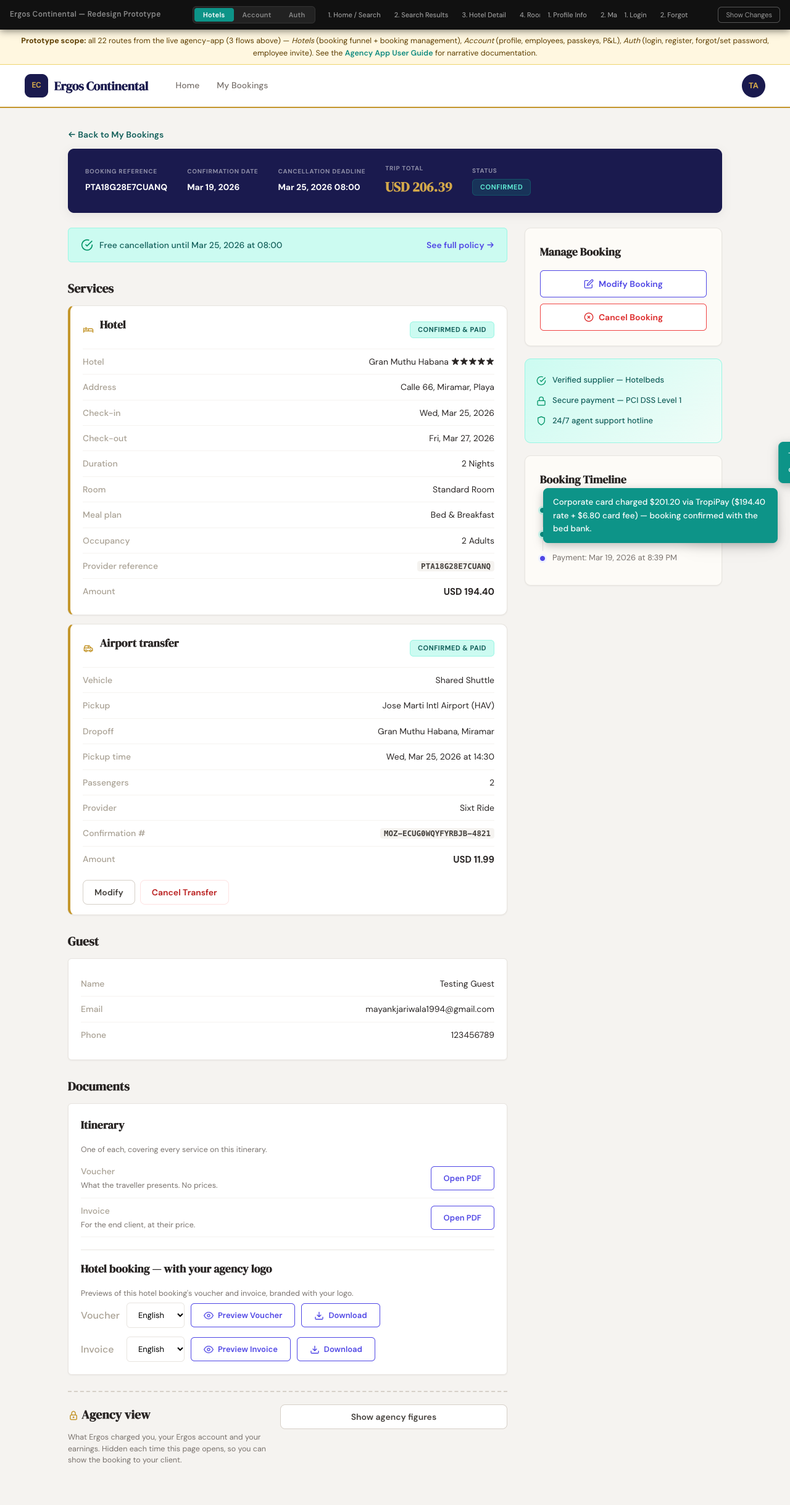
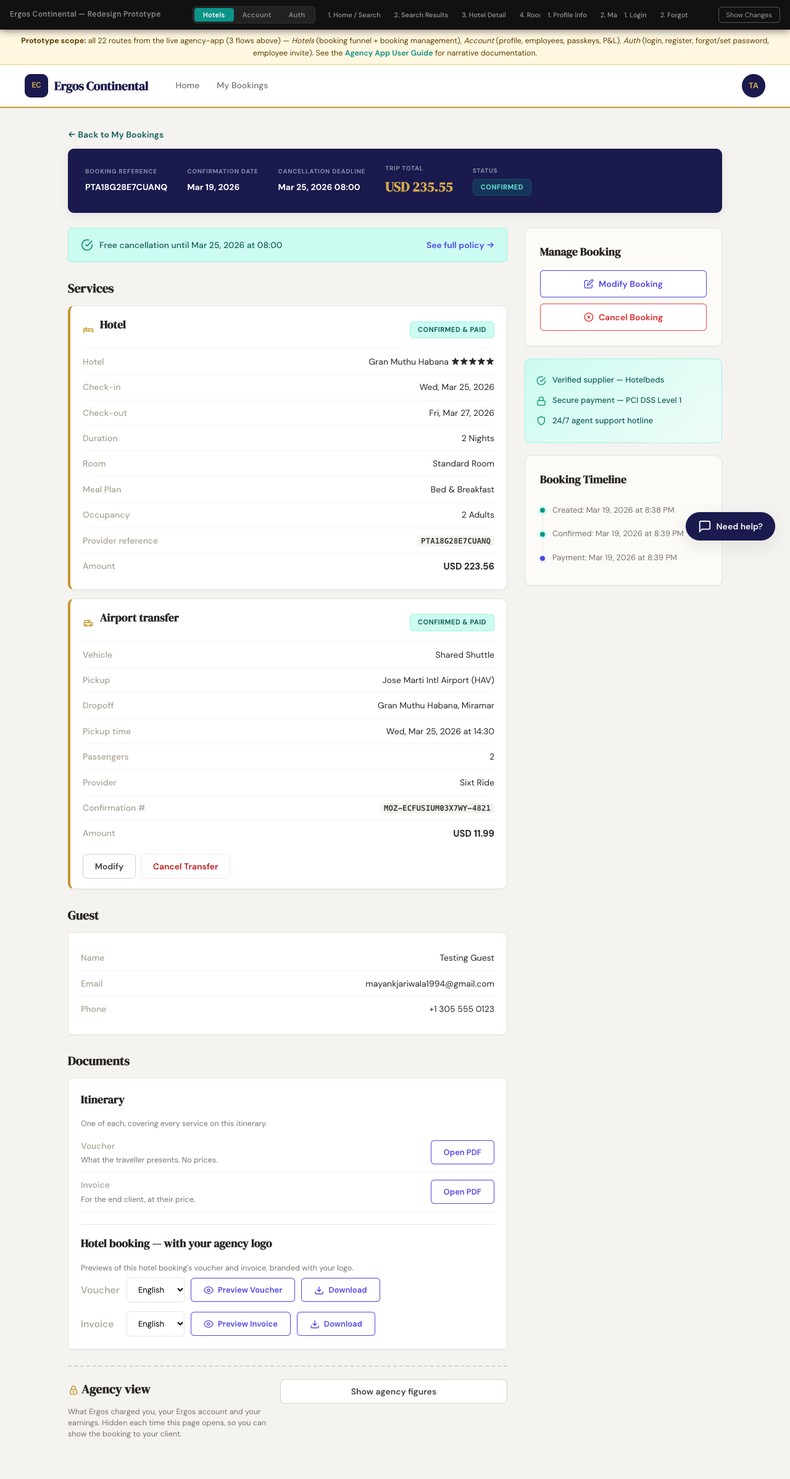
docs(37,38): bell reminders, no provider net, live ride states
Prototype: bell dropdown opens the reminder's own booking on its hotel
lane; no provider net in the add panel; ride fare priced once; phone
check on soft credit only. Guide: full ride status list, voucher and
invoice wording, cancellation banner.

diff --git a/public/user-guide/agency-app-user-guide.html b/public/user-guide/agency-app-user-guide.html
@@ -523,8 +523,8 @@
 
     <h3 class="lang-en">One transfer per booking</h3>
     <h3 class="lang-es">Un traslado por reserva</h3>
-    <p class="lang-en">A booking carries <strong>at most one</strong> airport transfer. While it has a booked ride, its page hides <strong>+ Add airport transfer</strong>, so there is no way to start a second one. Cancel the existing transfer first and the button comes back for the replacement. A cancelled transfer does not count, so a booking whose ride you cancelled is free to take a new one.</p>
-    <p class="lang-es">Una reserva lleva <strong>como máximo un</strong> traslado al aeropuerto. Mientras tenga un traslado reservado, su página oculta <strong>+ Add airport transfer</strong> (agregar traslado al aeropuerto), así que no hay forma de iniciar un segundo. Cancele primero el traslado existente y el botón vuelve a aparecer para el reemplazo. Un traslado cancelado no cuenta, así que una reserva cuyo traslado usted canceló puede tomar uno nuevo.</p>
+    <p class="lang-en">A booking carries <strong>at most one</strong> airport transfer. While it has a booked ride, its page offers no entry to add another: <strong>+ Add airport transfer</strong> is hidden. Cancel the existing transfer first and the button comes back for the replacement. A cancelled transfer does not count, so a booking whose ride you cancelled is free to take a new one.</p>
+    <p class="lang-es">Una reserva lleva <strong>como máximo un</strong> traslado al aeropuerto. Mientras tenga un traslado reservado, su página no ofrece ninguna entrada para agregar otro: <strong>+ Add airport transfer</strong> (agregar traslado al aeropuerto) está oculto. Cancele primero el traslado existente y el botón vuelve a aparecer para el reemplazo. Un traslado cancelado no cuenta, así que una reserva cuyo traslado usted canceló puede tomar uno nuevo.</p>
 
     <div class="callout callout-info">
       <strong class="lang-en">No second entry while a ride is booked</strong>
@@ -538,13 +538,17 @@
     <p class="lang-en">Every ride on a booking has its own <strong>Airport transfer</strong> lane in the booking's <em>Services</em> section (see §7), with a status badge:</p>
     <p class="lang-es">Cada traslado de una reserva tiene su propio carril <strong>Airport transfer</strong> (traslado al aeropuerto) en la sección <em>Services</em> (servicios) de la reserva (ver §7), con una etiqueta de estado:</p>
     <ul class="lang-en">
+      <li><strong>IN PROGRESS</strong> — the ride is still being booked; its amount reads <em>Not booked yet — not counted</em>.</li>
+      <li><strong>CONFIRMED — NOT PAID</strong> — booked, not charged yet; it counts in the total and appears as <em>Outstanding</em> in the agency view.</li>
       <li><strong>CONFIRMED &amp; PAID</strong> — booked and paid. The lane lists the vehicle, pickup, dropoff, pickup time, passengers, provider and the <em>Confirmation #</em> the client and the driver use, with <strong>Modify</strong> and <strong>Cancel Transfer</strong> underneath.</li>
-      <li><strong>CANCELLED</strong> — you cancelled it. Its amount is struck through as <em>Refunded — not counted</em>: the fare is back on your credit and no longer in the total.</li>
+      <li><strong>CANCELLED</strong> — you cancelled it, and it is no longer in the total. Its amount is struck through as <em>Refunded — not counted</em> when its fare came back to you, or <em>Cancelled — not counted</em> when nothing was refunded.</li>
       <li><strong>NOT BOOKED</strong> — the provider refused it. The amount reads <em>Not booked — not counted</em>, the provider's reason is shown, and <strong>Retry airport transfer</strong> starts a new search (see §5). Your room is <em>not</em> affected.</li>
     </ul>
     <ul class="lang-es">
+      <li><strong>IN PROGRESS</strong> (en curso) — el traslado todavía se está reservando; su importe indica <em>Not booked yet — not counted</em> (aún no reservado, no se cuenta).</li>
+      <li><strong>CONFIRMED — NOT PAID</strong> (confirmado, sin pagar) — reservado y aún no cobrado; cuenta en el total y figura como <em>Outstanding</em> (pendiente) en la vista de la agencia.</li>
       <li><strong>CONFIRMED &amp; PAID</strong> (confirmado y pagado) — reservado y pagado. El carril muestra el vehículo, la recogida, el destino, la hora de recogida, los pasajeros, el proveedor y el <em>Confirmation #</em> (número de confirmación) que usan el cliente y el conductor, con <strong>Modify</strong> (modificar) y <strong>Cancel Transfer</strong> (cancelar traslado) debajo.</li>
-      <li><strong>CANCELLED</strong> (cancelado) — usted lo canceló. Su importe aparece tachado como <em>Refunded — not counted</em> (reembolsado, no se cuenta): la tarifa volvió a su crédito y ya no forma parte del total.</li>
+      <li><strong>CANCELLED</strong> (cancelado) — usted lo canceló y ya no forma parte del total. Su importe aparece tachado como <em>Refunded — not counted</em> (reembolsado, no se cuenta) cuando la tarifa le fue devuelta, o <em>Cancelled — not counted</em> (cancelado, no se cuenta) cuando no hubo reembolso.</li>
       <li><strong>NOT BOOKED</strong> (no reservado) — el proveedor lo rechazó. El importe indica <em>Not booked — not counted</em>, se muestra el motivo del proveedor y <strong>Retry airport transfer</strong> (reintentar el traslado) inicia una nueva búsqueda (ver §5). Su habitación <em>no</em> se ve afectada.</li>
     </ul>
     <p class="lang-en"><strong>Modify</strong> opens <em>Modify Transfer — Search New Vehicle</em> to change the pickup, date, time or passengers. <strong>Cancel Transfer</strong> shows the vehicle, pickup, price and confirmation number and asks <em>"Are you sure you want to cancel this transfer? This action cannot be undone."</em> — <strong>Keep Transfer</strong> or <strong>Yes, Cancel</strong>. The hotel stays booked, and <strong>+ Add airport transfer</strong> is offered again.</p>
@@ -606,8 +610,8 @@
     <h3 class="lang-es">Reabrir una reserva que tiene traslado</h3>
     <p class="lang-en">In the list, a booking that carries an airport transfer is totalled as <strong>TRIP TOTAL</strong> instead of <strong>TOTAL CLIENT PRICE</strong> — that label is how you spot one at a glance. Click <strong>View Booking Details</strong> to open it.</p>
     <p class="lang-es">En la lista, una reserva que lleva un traslado al aeropuerto se totaliza como <strong>TRIP TOTAL</strong> (total del viaje) en lugar de <strong>TOTAL CLIENT PRICE</strong> (precio total al cliente) — esa etiqueta es la forma de reconocerla de un vistazo. Haga clic en <strong>View Booking Details</strong> para abrirla.</p>
-    <p class="lang-en">The detail page opens with the booking header: <em>BOOKING REFERENCE</em>, <em>CONFIRMATION DATE</em>, <em>CANCELLATION DEADLINE</em>, the total and <em>STATUS</em>. The total reads <em>TRIP TOTAL</em> while a ride is counted and <em>TOTAL CLIENT PRICE</em> otherwise; it adds up only the services still booked. Below it the page has four parts, each fact in one place: <strong>Services</strong>, <strong>Guest</strong>, <strong>Documents</strong> and the <strong>Agency view</strong>. <em>Manage Booking</em> (<strong>Modify Booking</strong>, <strong>Cancel Booking</strong>) and the <em>Booking Timeline</em> sit on the right.</p>
-    <p class="lang-es">La página de detalle se abre con el encabezado de la reserva: <em>BOOKING REFERENCE</em> (referencia), <em>CONFIRMATION DATE</em> (fecha de confirmación), <em>CANCELLATION DEADLINE</em> (fecha límite de cancelación), el total y <em>STATUS</em> (estado). El total dice <em>TRIP TOTAL</em> (total del viaje) mientras se cuenta un traslado y <em>TOTAL CLIENT PRICE</em> (precio total al cliente) en los demás casos; solo suma los servicios que siguen reservados. Debajo, la página tiene cuatro partes, cada dato en un solo lugar: <strong>Services</strong> (servicios), <strong>Guest</strong> (huésped), <strong>Documents</strong> (documentos) y la <strong>Agency view</strong> (vista de la agencia). <em>Manage Booking</em> (<strong>Modify Booking</strong>, <strong>Cancel Booking</strong>) y el <em>Booking Timeline</em> (historial de la reserva) están a la derecha.</p>
+    <p class="lang-en">The detail page opens with the booking header: <em>BOOKING REFERENCE</em>, <em>CONFIRMATION DATE</em>, <em>CANCELLATION DEADLINE</em>, the total and <em>STATUS</em>. The total reads <em>TRIP TOTAL</em> while a ride is counted and <em>TOTAL CLIENT PRICE</em> otherwise; it adds up only the services still booked. Under the header, a banner states the cancellation policy — for example <em>Cancellable</em>, <em>"No cancellation fees until 23/10/2026 at 20:00."</em> and <strong>See more</strong>. Below it the page has four parts, each fact in one place: <strong>Services</strong>, <strong>Guest</strong>, <strong>Documents</strong> and the <strong>Agency view</strong>. <em>Manage Booking</em> (<strong>Modify Booking</strong>, <strong>Cancel Booking</strong>) and the <em>Booking Timeline</em> sit on the right.</p>
+    <p class="lang-es">La página de detalle se abre con el encabezado de la reserva: <em>BOOKING REFERENCE</em> (referencia), <em>CONFIRMATION DATE</em> (fecha de confirmación), <em>CANCELLATION DEADLINE</em> (fecha límite de cancelación), el total y <em>STATUS</em> (estado). El total dice <em>TRIP TOTAL</em> (total del viaje) mientras se cuenta un traslado y <em>TOTAL CLIENT PRICE</em> (precio total al cliente) en los demás casos; solo suma los servicios que siguen reservados. Bajo el encabezado, un banner indica la política de cancelación — por ejemplo <em>Cancellable</em> (cancelable), <em>"No cancellation fees until 23/10/2026 at 20:00."</em> (sin cargos de cancelación hasta el 23/10/2026 a las 20:00) y <strong>See more</strong> (ver más). Debajo, la página tiene cuatro partes, cada dato en un solo lugar: <strong>Services</strong> (servicios), <strong>Guest</strong> (huésped), <strong>Documents</strong> (documentos) y la <strong>Agency view</strong> (vista de la agencia). <em>Manage Booking</em> (<strong>Modify Booking</strong>, <strong>Cancel Booking</strong>) y el <em>Booking Timeline</em> (historial de la reserva) están a la derecha.</p>
 
     <h3 class="lang-en">Services: one lane per service</h3>
     <h3 class="lang-es">Services: un carril por servicio</h3>
@@ -773,13 +777,13 @@
     <p class="lang-es">La <strong>Invoice</strong> del itinerario se abre como una <strong>PROFORMA INVOICE</strong> (factura proforma) encabezada con el nombre de su agencia y una referencia (<em>Ref: INV-…</em>). Una banda oscura lleva la fecha y la etiqueta de pago (por ejemplo <strong>PAID</strong>, pagada). Luego:</p>
     <ul class="lang-en">
       <li><strong>BILL TO</strong> — the end client's name and email.</li>
-      <li><strong>SERVICE DETAILS</strong> — grouped under <strong>ACCOMMODATION</strong> and <strong>TRANSFER</strong>; each line has its description and reference, its <em>Status</em> (for example <em>Paid</em>) and its total at the client's price.</li>
+      <li><strong>SERVICE DETAILS</strong> — grouped under <strong>ACCOMMODATION</strong> and <strong>TRANSFER</strong>; each line has its description, a provider reference, its <em>Status</em> (for example <em>Paid</em>) and its total at the client's price.</li>
       <li><em>Accommodation Subtotal</em>, <em>Transfer Subtotal</em> and the <strong>TOTAL</strong>.</li>
       <li><strong>PAYMENT INFORMATION</strong> — the amount <em>PAID</em> and the <em>STATUS</em> (for example <strong>PAID IN FULL</strong>).</li>
     </ul>
     <ul class="lang-es">
       <li><strong>BILL TO</strong> (facturar a) — el nombre y el correo del cliente final.</li>
-      <li><strong>SERVICE DETAILS</strong> (detalle de servicios) — agrupados bajo <strong>ACCOMMODATION</strong> (alojamiento) y <strong>TRANSFER</strong> (traslado); cada línea tiene su descripción y referencia, su <em>Status</em> (estado, por ejemplo <em>Paid</em>) y su total al precio del cliente.</li>
+      <li><strong>SERVICE DETAILS</strong> (detalle de servicios) — agrupados bajo <strong>ACCOMMODATION</strong> (alojamiento) y <strong>TRANSFER</strong> (traslado); cada línea tiene su descripción, una referencia del proveedor, su <em>Status</em> (estado, por ejemplo <em>Paid</em>) y su total al precio del cliente.</li>
       <li><em>Accommodation Subtotal</em>, <em>Transfer Subtotal</em> y el <strong>TOTAL</strong>.</li>
       <li><strong>PAYMENT INFORMATION</strong> (información de pago) — el importe <em>PAID</em> (pagado) y el <em>STATUS</em> (por ejemplo <strong>PAID IN FULL</strong>, pagada en su totalidad).</li>
     </ul>
@@ -797,10 +801,10 @@
     </figure>
 
     <div class="callout callout-info">
-      <strong class="lang-en">What's on the voucher:</strong>
-      <strong class="lang-es">Qué tiene el voucher:</strong>
-      <span class="lang-en"> your agency's name, a reference, the guest, the hotel with check-in, check-out and room, and — when the booking has one — the airport transfer (vehicle, confirmation number, pickup, pickup time, dropoff). No price is printed on it.</span>
-      <span class="lang-es"> el nombre de su agencia, una referencia, el huésped, el hotel con check-in, check-out y habitación, y — cuando la reserva lo tiene — el traslado al aeropuerto (vehículo, número de confirmación, recogida, hora de recogida, destino). No lleva ningún precio impreso.</span>
+      <strong class="lang-en">What's on the itinerary voucher:</strong>
+      <strong class="lang-es">Qué tiene el voucher del itinerario:</strong>
+      <span class="lang-en"> your agency's name and contact, the itinerary reference and the issue date; for the hotel, its name, the guest, the dates with the number of nights and its confirmation; and — when the booking has one — the airport transfer (provider and vehicle, passenger, pickup, pickup time, dropoff and confirmation). No price is printed on it. The room type is not on it; it appears on the branded hotel-booking voucher (<strong>Preview Voucher</strong>).</span>
+      <span class="lang-es"> el nombre y el contacto de su agencia, la referencia del itinerario y la fecha de emisión; para el hotel, su nombre, el huésped, las fechas con la cantidad de noches y su confirmación; y — cuando la reserva lo tiene — el traslado al aeropuerto (proveedor y vehículo, pasajero, recogida, hora de recogida, destino y confirmación). No lleva ningún precio impreso. El tipo de habitación no figura en él; aparece en el voucher de la reserva de hotel con su logo (<strong>Preview Voucher</strong>).</span>
     </div>
   </section>
 
@@ -1269,7 +1273,7 @@
     <p class="lang-es">Abrir la página marca los recordatorios como <strong>leídos</strong>, así que la insignia de la campana se limpia. Tenga en cuenta que el banner de urgencia permanece hasta que el cover se paga efectivamente — leer la página limpia la insignia, no el banner.</p>
 
     <h3 class="lang-en">Opening a reminder takes you to the hotel</h3>
-    <h3 class="lang-es">Abrir un recordatorio le lleva al hotel</h3>
+    <h3 class="lang-es">Abrir un recordatorio lo lleva al hotel</h3>
     <p class="lang-en">Each reminder on the page names its booking — for example <em>"Cover payment due — booking 54144526"</em> with <em>"Pay by 26 Sep, 2026 to keep your booking."</em> and a <strong>DUE WITHIN 24H</strong> badge. The bell's own list shows the same reminder in short — <em>"Cover payment due — booking 54144526 · due within 24h"</em>. Click the reminder in either place and the booking's detail page opens scrolled to the <strong>Hotel</strong> lane, just below the top bar, so the service the payment is about is the first thing you see.</p>
     <p class="lang-es">Cada recordatorio de la página indica su reserva — por ejemplo <em>"Cover payment due — booking 54144526"</em> (pago de cover pendiente — reserva 54144526) con <em>"Pay by 26 Sep, 2026 to keep your booking."</em> (pague antes del 26 de septiembre de 2026 para conservar su reserva) y una etiqueta <strong>DUE WITHIN 24H</strong> (vence en 24 h). La lista de la propia campana muestra el mismo recordatorio en forma breve — <em>"Cover payment due — booking 54144526 · due within 24h"</em>. Haga clic en el recordatorio en cualquiera de los dos lugares y la página de detalle de la reserva se abre desplazada hasta el carril <strong>Hotel</strong>, justo debajo de la barra superior, de modo que lo primero que ve es el servicio al que se refiere el pago.</p>
 

diff --git a/public/prototypes/agency-app/index.html b/public/prototypes/agency-app/index.html
@@ -117,7 +117,7 @@
       <div class="nav-right">
         <button class="icon-btn help-btn" title="Need help?" aria-label="Help"><svg width="18" height="18" viewBox="0 0 24 24" fill="none" stroke="currentColor" stroke-width="2"><circle cx="12" cy="12" r="10"/><path d="M9.09 9a3 3 0 0 1 5.83 1c0 2-3 3-3 3"/><path d="M12 17h.01"/></svg></button>
         <button class="icon-btn" aria-label="Language"><svg width="18" height="18" viewBox="0 0 24 24" fill="none" stroke="currentColor" stroke-width="2"><circle cx="12" cy="12" r="10"/><path d="M2 12h20M12 2a15.3 15.3 0 0 1 4 10 15.3 15.3 0 0 1-4 10 15.3 15.3 0 0 1-4-10 15.3 15.3 0 0 1 4-10z"/></svg></button>
-        <button class="icon-btn notif-bell" aria-label="Notifications" title="Notifications" onclick="openNotifications()"><svg width="18" height="18" viewBox="0 0 24 24" fill="none" stroke="currentColor" stroke-width="2"><path d="M18 8A6 6 0 0 0 6 8c0 7-3 9-3 9h18s-3-2-3-9M13.73 21a2 2 0 0 1-3.46 0"/></svg><span class="notif-badge">2</span></button>
+        <button class="icon-btn notif-bell" aria-label="Notifications" title="Notifications" aria-haspopup="menu" aria-expanded="false" onclick="openNotifications(event)"><svg width="18" height="18" viewBox="0 0 24 24" fill="none" stroke="currentColor" stroke-width="2"><path d="M18 8A6 6 0 0 0 6 8c0 7-3 9-3 9h18s-3-2-3-9M13.73 21a2 2 0 0 1-3.46 0"/></svg><span class="notif-badge">2</span></button>
         <span class="nav-greeting" id="nav-greeting">Good afternoon, Demo Agency</span>
         <div class="avatar">TA</div>
       </div>
@@ -1740,7 +1740,7 @@
         <a href="#" class="nav-link active">My Bookings</a>
       </div>
       <div class="nav-right">
-        <button class="icon-btn notif-bell" aria-label="Notifications" title="Notifications" onclick="openNotifications()"><svg width="18" height="18" viewBox="0 0 24 24" fill="none" stroke="currentColor" stroke-width="2"><path d="M18 8A6 6 0 0 0 6 8c0 7-3 9-3 9h18s-3-2-3-9M13.73 21a2 2 0 0 1-3.46 0"/></svg><span class="notif-badge">2</span></button>
+        <button class="icon-btn notif-bell" aria-label="Notifications" title="Notifications" aria-haspopup="menu" aria-expanded="false" onclick="openNotifications(event)"><svg width="18" height="18" viewBox="0 0 24 24" fill="none" stroke="currentColor" stroke-width="2"><path d="M18 8A6 6 0 0 0 6 8c0 7-3 9-3 9h18s-3-2-3-9M13.73 21a2 2 0 0 1-3.46 0"/></svg><span class="notif-badge">2</span></button>
         <span class="nav-greeting">Good afternoon, Demo Agency</span>
         <div class="avatar">DA</div>
       </div>
@@ -2113,7 +2113,7 @@
         <a href="#" class="nav-link" onclick="showScreen('bookings')">My Bookings</a>
       </div>
       <div class="nav-right">
-        <button class="icon-btn notif-bell" aria-label="Notifications" title="Notifications" onclick="openNotifications()"><svg width="18" height="18" viewBox="0 0 24 24" fill="none" stroke="currentColor" stroke-width="2"><path d="M18 8A6 6 0 0 0 6 8c0 7-3 9-3 9h18s-3-2-3-9M13.73 21a2 2 0 0 1-3.46 0"/></svg><span class="notif-badge">2</span></button>
+        <button class="icon-btn notif-bell" aria-label="Notifications" title="Notifications" aria-haspopup="menu" aria-expanded="false" onclick="openNotifications(event)"><svg width="18" height="18" viewBox="0 0 24 24" fill="none" stroke="currentColor" stroke-width="2"><path d="M18 8A6 6 0 0 0 6 8c0 7-3 9-3 9h18s-3-2-3-9M13.73 21a2 2 0 0 1-3.46 0"/></svg><span class="notif-badge">2</span></button>
         <div class="avatar">DA</div>
       </div>
     </nav>
@@ -2184,7 +2184,7 @@
       <!-- Header Summary -->
       <div class="bd-header">
         <div class="bd-header-grid">
-          <div class="bd-h-item"><span class="bd-h-label">Booking Reference</span><span class="bd-h-val">PTA18G28E7CUANQ</span></div>
+          <div class="bd-h-item"><span class="bd-h-label">Booking Reference</span><span class="bd-h-val" id="bd-header-ref">PTA18G28E7CUANQ</span></div>
           <div class="bd-h-item"><span class="bd-h-label">Confirmation Date</span><span class="bd-h-val">Mar 19, 2026</span></div>
           <div class="bd-h-item"><span class="bd-h-label">Cancellation Deadline</span><span class="bd-h-val">Mar 25, 2026 08:00</span></div>
           <div class="bd-h-item"><span class="bd-h-label" id="bd-header-price-label">Total Client Price</span><span class="bd-h-val bd-h-price" id="bd-header-price">USD 194.40</span></div>
@@ -2228,7 +2228,7 @@
                 <span class="status-badge confirmed" id="bd-f1-hotel-status">Confirmed &amp; paid</span>
               </div>
               <dl class="bd-lane-rows">
-                <div class="bd-sc-row"><dt class="bd-sc-label">Hotel</dt><dd>Gran Muthu Habana ★★★★★</dd></div>
+                <div class="bd-sc-row"><dt class="bd-sc-label">Hotel</dt><dd id="bd-hotel-name">Gran Muthu Habana ★★★★★</dd></div>
                 <div class="bd-sc-row"><dt class="bd-sc-label">Check-in</dt><dd id="bd-checkin">Wed, Mar 25, 2026</dd></div>
                 <div class="bd-sc-row"><dt class="bd-sc-label">Check-out</dt><dd id="bd-checkout">Fri, Mar 27, 2026</dd></div>
                 <div class="bd-sc-row"><dt class="bd-sc-label">Duration</dt><dd id="bd-duration">2 Nights</dd></div>
@@ -2354,7 +2354,6 @@
                       </div>
                     </div>
                     <div class="vc-price">
-                      <div class="vc-net">Net USD 48.00</div>
                       <div class="vc-sell" data-base-usd="55.20">USD 55.20</div>
                     </div>
                     <button class="vc-add-btn" onclick="bdatSelect(this.closest('.vehicle-card'))">Select</button>
@@ -2372,7 +2371,6 @@
                       </div>
                     </div>
                     <div class="vc-price">
-                      <div class="vc-net">Net USD 62.00</div>
                       <div class="vc-sell" data-base-usd="71.30">USD 71.30</div>
                     </div>
                     <button class="vc-add-btn" onclick="bdatSelect(this.closest('.vehicle-card'))">Select</button>

diff --git a/public/prototypes/agency-app/app.js b/public/prototypes/agency-app/app.js
@@ -1024,7 +1024,7 @@ document.querySelectorAll('.help-btn').forEach(btn => {
 });
 
 // Navbar icon buttons (globe, notification bell)
-document.querySelectorAll('.navbar .icon-btn:not(.help-btn)').forEach(btn => {
+document.querySelectorAll('.navbar .icon-btn:not(.help-btn):not(.notif-bell)').forEach(btn => {
   btn.addEventListener('click', () => {
     showToast('info', 'Feature', 'This feature would open in the full application.');
   });
@@ -2587,29 +2587,35 @@ function bdSetAmount(id, amount, counted, note) {
   el.innerHTML = counted ? bdUSD(amount) : '<s>' + bdUSD(amount) + '</s><span class="bd-not-counted">' + (note || 'Cancelled — not counted') + '</span>';
 }
 
+// The hotel price is Ergos's (bookingState.price); a ride's fare is already the client price
+// (serviceTransferPrice), so its Ergos charge is that fare without the agency markup.
 function bdTotals() {
   const hotel = parseFloat(bookingState.price) || 0;
   const hotelCounted = !bookingState.isCancelled;
-  const ride = bdRideAmount();
+  const rideClient = bdRideAmount();
+  const ride = bdErgosPrice(rideClient);
   const rideCounted = bdHasActiveRide();
   const total = (hotelCounted ? hotel : 0) + (rideCounted ? ride : 0);
-  return { hotel, hotelCounted, ride, rideCounted, total };
+  const totalClient = (hotelCounted ? bdClientPrice(hotel) : 0) + (rideCounted ? rideClient : 0);
+  return { hotel, hotelCounted, ride, rideClient, rideCounted, total, totalClient };
 }
 
 // Owner decision 1a: everything visible by default is the CLIENT price (Ergos price × (1 +
 // agency markup), the P&L's "Customer paid"); Ergos figures live only in the agency view.
-function bdClientPrice(ergos) {
+function bdMarkupFactor() {
   const pct = (typeof agencyMarkupState !== 'undefined' && agencyMarkupState.percentage) || 0;
-  return Math.round(ergos * (1 + pct / 100) * 100) / 100;
+  return 1 + pct / 100;
 }
+function bdClientPrice(ergos) { return Math.round(ergos * bdMarkupFactor() * 100) / 100; }
+function bdErgosPrice(client) { return Math.round(client / bdMarkupFactor() * 100) / 100; }
 
 function bdItRender() {
   const t = bdTotals();
   bdSetAmount('bd-f1-hotel-amount', bdClientPrice(t.hotel), t.hotelCounted);
-  if (bdHasRide()) bdSetAmount('bd-f1-transport-amount', bdClientPrice(t.ride), t.rideCounted, bdRideNote());
+  if (bdHasRide()) bdSetAmount('bd-f1-transport-amount', t.rideClient, t.rideCounted, bdRideNote());
   // Header: the client's total of the services still booked, cancelled ones excluded.
   const price = document.getElementById('bd-header-price');
-  if (price) price.textContent = bdUSD(bdClientPrice(t.total));
+  if (price) price.textContent = bdUSD(t.totalClient);
   const label = document.getElementById('bd-header-price-label');
   if (label) label.textContent = t.rideCounted ? 'Trip Total' : 'Total Client Price';
   if (bdAgencyOpen) bdAgencyRender();
@@ -2665,9 +2671,20 @@ function bdRideRetry() {
   bdRetrying = true;
   bdRenderRideLane();
   bdatExpand();
+  document.getElementById('bdat-pickup')?.focus({ preventScroll: true });
+}
+
+let bdNotificationBooking = null;   // { hotel, ref } of the reminder that opened the page
+function bdApplyBookingIdentity() {
+  const keep = (id) => { const el = document.getElementById(id); if (el && el.dataset.orig == null) el.dataset.orig = el.textContent; return el; };
+  const n = bdItineraryFromNotification ? bdNotificationBooking : null;
+  [['bd-header-ref', n && n.ref], ['bd-f1-hotel-ref', n && n.ref], ['bd-hotel-name', n && n.hotel]].forEach(([id, v]) => {
+    const el = keep(id); if (el) el.textContent = v || el.dataset.orig;
+  });
 }
 
 function f1RenderOnBookingDetail() {
+  bdApplyBookingIdentity();
   bdRenderRideLane();
   bdItRender();
 }
@@ -2717,7 +2734,7 @@ function bdAgencyRender() {
   const markupPct = agencyMarkupState.percentage;
   const rebatePct = 12;
   const ergosCost = t.total;
-  const customerPaid = ergosCost * (1 + markupPct / 100);
+  const customerPaid = t.totalClient;
   const markup = customerPaid - ergosCost;
   const rebate = ergosCost * rebatePct / 100;
   body.innerHTML = cancelMoney +
@@ -3658,7 +3675,8 @@ function bdatBook() {
   const orig = window.confirmBooking;
   if (typeof orig !== 'function') return;
   window.confirmBooking = function () {
-    if (serviceTransferAdded && !f1RidePhoneOk()) return f1RefusePhone();
+    // Live BookingPage.tsx checks the phone on the soft-credit rail only.
+    if (serviceTransferAdded && window.__pmMode === 'later' && !f1RidePhoneOk()) return f1RefusePhone();
     // A new booking starts clean: no ride state carries over from the previous one.
     bdTransferLaneCancelled = false;
     bdRideNotBooked = false;

diff --git a/public/prototypes/agency-app/proto-stories.js b/public/prototypes/agency-app/proto-stories.js
@@ -1322,10 +1322,47 @@ function ntSyncBadges() {
   });
 }
 
-/* Bell click → open the Notifications page (marks read on render via showScreen). */
-function openNotifications() {
-  showScreen('notifications');
+/* Bell click → a small list under the bell, as in the live app (documentation#38): each
+   open reminder opens its booking on the hotel lane; "View all →" opens the Notifications
+   page (which marks them read). */
+function ntDropdownItemLabel(i) {
+  return 'Cover payment due — booking ' + i.ref + ' · ' + (i.group === 'due' ? 'due within 24h' : i.when);
 }
+function ntCloseDropdown() {
+  const dd = document.getElementById('nt-dropdown');
+  if (dd) dd.remove();
+  document.querySelectorAll('.notif-bell[aria-expanded]').forEach(b => b.setAttribute('aria-expanded', 'false'));
+}
+function openNotifications(ev) {
+  const bell = ev && ev.currentTarget;
+  if (document.getElementById('nt-dropdown')) { ntCloseDropdown(); return; }
+  if (!bell) { showScreen('notifications'); return; }
+  const open = NT_STORE.items.filter(i => i.group !== 'resolved');
+  const dd = document.createElement('div');
+  dd.id = 'nt-dropdown';
+  dd.className = 'nt-dropdown';
+  dd.setAttribute('role', 'menu');
+  dd.innerHTML = '<div class="nt-dd-title">Notifications</div>' +
+    (open.length
+      ? open.map(i => '<button type="button" role="menuitem" class="nt-dd-item" data-id="' + i.id + '">' + ntDropdownItemLabel(i) + '</button>').join('')
+      : '<p class="nt-dd-empty">You\'re all caught up.</p>') +
+    '<button type="button" role="menuitem" class="nt-dd-all">View all →</button>';
+  document.body.appendChild(dd);
+  const r = bell.getBoundingClientRect();
+  dd.style.top = (window.scrollY + r.bottom + 8) + 'px';
+  dd.style.left = Math.max(16, Math.min(window.scrollX + r.right - dd.offsetWidth, window.innerWidth - dd.offsetWidth - 16)) + 'px';
+  bell.setAttribute('aria-expanded', 'true');
+  dd.addEventListener('click', e => {
+    const item = e.target.closest('.nt-dd-item');
+    if (item) { ntCloseDropdown(); ntOpenItem(item.dataset.id); return; }
+    if (e.target.closest('.nt-dd-all')) { ntCloseDropdown(); showScreen('notifications'); }
+  });
+  dd.querySelector('button')?.focus();
+}
+document.addEventListener('click', e => {
+  if (!e.target.closest('#nt-dropdown') && !e.target.closest('.notif-bell')) ntCloseDropdown();
+});
+document.addEventListener('keydown', e => { if (e.key === 'Escape') ntCloseDropdown(); });
 
 function ntRenderGroup(key, label) {
   const items = NT_STORE.items.filter(i => i.group === key);
@@ -1336,7 +1373,7 @@ function ntRenderGroup(key, label) {
     const tag = unread ? '<span class="nt-unread-tag">Unread</span>' : '';
     // documentation#38 AC 3 — an open reminder opens the booking on its hotel lane.
     const open = key !== 'resolved'
-      ? ` role="button" tabindex="0" style="cursor:pointer" onclick="ntOpenItem('${i.id}')" onkeydown="if(event.key==='Enter')ntOpenItem('${i.id}')"`
+      ? ` role="button" tabindex="0" style="cursor:pointer" onclick="ntOpenItem('${i.id}')" onkeydown="if(event.key==='Enter'||event.key===' '){event.preventDefault();ntOpenItem('${i.id}')}"`
       : '';
     return `<div class="${cls}"${open}>
       <span class="nt-dot"></span>
@@ -1356,6 +1393,9 @@ function ntRenderGroup(key, label) {
 /* documentation#38 AC 3 — click a reminder → the booking view opens scrolled to the
    HOTEL lane, just below the header (live: /bookings/:id?item=<ref>, lane title focused). */
 function ntOpenItem(id) {
+  // Open the reminder's own booking: its hotel and reference, not the demo's.
+  const it = NT_STORE.items.find(i => i.id === id);
+  bdNotificationBooking = it ? { hotel: it.hotel, ref: it.ref } : null;
   bdItineraryFromNotification = true;
   showScreen('booking-detail');
   setTimeout(() => {

diff --git a/public/prototypes/agency-app/styles.css b/public/prototypes/agency-app/styles.css
@@ -4291,3 +4291,11 @@ details[open] .mr-tier-summary::before {
   #bd-modify-modal .modal-actions, #bd-tfc-modal .modal-actions { padding: 16px; }
 }
 .bd-mb-rooms-head .btn-secondary { flex: 0 0 auto; }
+
+/* Bell dropdown (documentation#38) — mirrors the live NotifyDropDown */
+.nt-dropdown { position: absolute; z-index: 80; width: 360px; max-width: calc(100vw - 32px); background: #fff; border: 1px solid var(--warm-200); border-radius: 14px; box-shadow: 0 12px 32px rgba(28,25,23,.14); padding: 18px 16px 12px; }
+.nt-dd-title { font-family: var(--font-display, Georgia, serif); font-weight: 700; font-size: 17px; color: var(--warm-900); margin: 0 4px 10px; }
+.nt-dd-item, .nt-dd-all { display: block; width: 100%; text-align: left; background: none; border: 0; border-radius: 8px; padding: 10px 12px; font: inherit; font-size: 14px; color: var(--warm-800); cursor: pointer; }
+.nt-dd-item:hover, .nt-dd-item:focus-visible, .nt-dd-all:hover, .nt-dd-all:focus-visible { background: var(--warm-100); outline: none; }
+.nt-dd-all { margin-top: 6px; font-weight: 500; }
+.nt-dd-empty { margin: 4px 12px 8px; font-size: 13px; color: var(--warm-500); }
